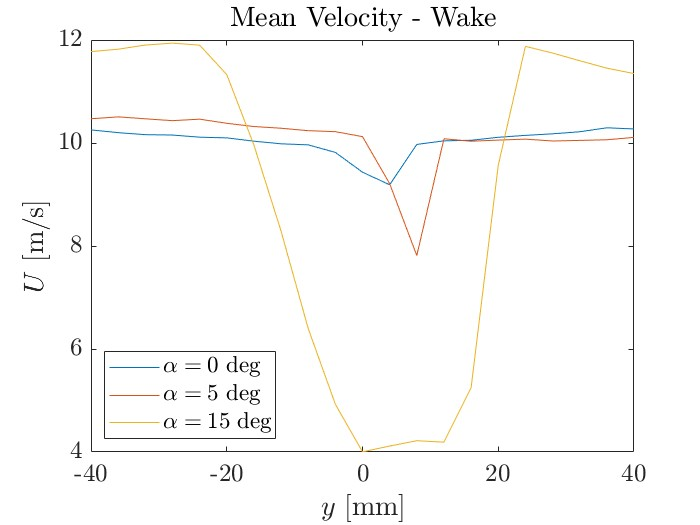
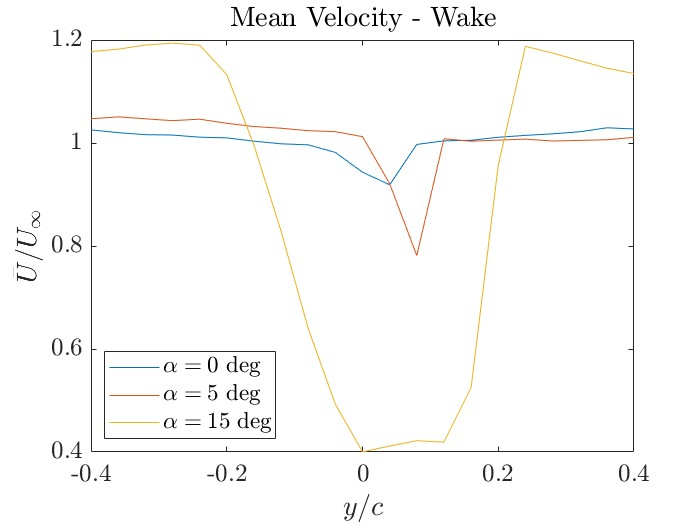
HWA

diff --git a/main.m b/main.m
@@ -128,8 +128,8 @@ spectrum = abs(uk_pre);
 
 close all
 %% 3. Analyze the PIV data 
-piv_inst_files = {'AoA_0__SP(32x32_50ov)./B00001.dat', 'AoA_5__SP(32x32_50ov)./B00001.dat', 'AoA_5__SP(32x32_50ov)./B00001.dat'};
-piv_figure = {'AoA_0__SP(32x32_50ov).','AoA_5__SP(32x32_50ov).','AoA_15__SP(32x32_50ov).'};
+piv_inst_files = {'AoA_0__SP(32x32_50ov)/B00001.dat'};
+piv_figure = {'AoA_0__SP(32x32_50ov)'};
 % piv_inst_files = {'AoA_15_dt_6__MP(1x16x16_50ov)./B00001.dat'};
 % piv_figure = {'AoA_15_dt_6__MP(1x16x16_50ov).'};
 for i = 1:length(piv_inst_files)
@@ -212,7 +212,8 @@ end
 figure(1)
 plot(ts,ucorr); hold on
 yline(0);
-scatter(T,ucorr(val)); hold off
+scatter(T,ucorr(val));
+text(T+0.001,ucorr(val)+0.05,['(',num2str(T),',',num2str(ucorr(val)),')']); hold off
 xlim([0,0.05]); ylim([-0.1,1]);
 title('Normalized Auto-correlation Coefficient','Interpreter','latex','FontSize',fntSz);
 ylabel('$\rho_{xx}$','Interpreter','latex','FontSize',fntSz);
@@ -232,7 +233,7 @@ figure(10)
 plot(yvec/c,hwa.ubar(1,:)/U_inf); hold on
 plot(yvec/c,hwa.ubar(2,:)/U_inf);
 plot(yvec/c,hwa.ubar(3,:)/U_inf); hold off
-ylabel('$|U|/U_{\infty}$','Interpreter','latex','FontSize',fntSz);
+ylabel('$\bar{U}/U_{\infty}$','Interpreter','latex','FontSize',fntSz);
 xlabel('$y/c$','Interpreter','latex','FontSize',fntSz);
 title('Mean Velocity - Wake','Interpreter','latex','FontSize',fntSz);
 legend('$\alpha = 0$ deg', '$\alpha = 5$ deg', '$\alpha = 15$ deg','interpreter','latex','Location','southwest')

diff --git a/calibration.m b/calibration.m
@@ -28,11 +28,12 @@ end
 kings = polyfit(u,urange,4);
 
 figure(1)
-scatter(u,urange); hold on
-plot(1.1:0.001:1.82,polyval(kings,1.1:0.001:1.82))
-legend('calibration data', 'calibration polynomial','FontSize',fntSz)
-ylabel('$U$ [m/s]','Interpreter','latex','FontSize',fntSz)
-xlabel('$V$ [volt]','Interpreter','latex','FontSize',fntSz)
+scatter(urange,u); hold on
+plot(polyval(kings,1.1:0.001:1.82),1.1:0.001:1.82)
+legend('calibration data', 'calibration polynomial','Interpreter','latex','Location','southeast')
+title('Calibration Curve');
+xlabel('$U$ [m/s]','Interpreter','latex','FontSize',fntSz)
+ylabel('$V$ [volt]','Interpreter','latex','FontSize',fntSz)
 % set(gca,)
 grid on
 hold off
